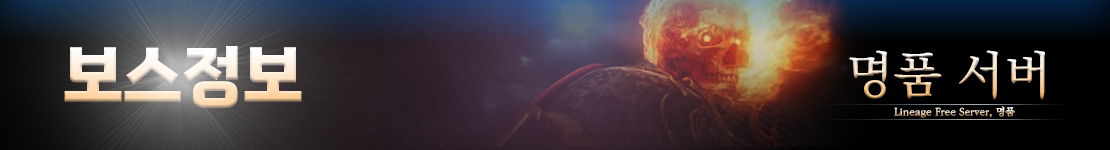
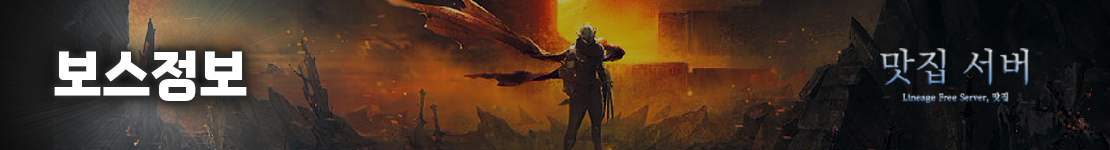
upload image

diff --git a/index.html b/index.html
@@ -459,7 +459,7 @@ visibility: visible;
 								<div class="wrap_widgetDW">
 									<table class="widgetTable_DW">
 										<tbody>
-											<tr class=""><td colspan="2"><a href="./hgInfo.html"><div class="post-image"><div class="img-wrap" style="padding-bottom:71.38%;"><div class="img-item"><img src="./images/main_widget_bg.png" alt="" class="wr-img"><div class="in-subject ellipsis">사냥터정보</div></div></div></div></a></td></tr><tr class="">
+											<tr class=""><td colspan="2"><a href="./hgInfo.html"><div class="post-image"><div class="img-wrap" style="padding-bottom:71.38%;"><div class="img-item"><img src="./images/main_widget_hg_info_bg.png" alt="" class="wr-img"><div class="in-subject ellipsis">사냥터정보</div></div></div></div></a></td></tr><tr class="">
 													<td class="title">
 														<div class="in_title">&nbsp;</div>
 													</td>
@@ -502,7 +502,7 @@ visibility: visible;
 								<div class="wrap_widgetDW">
 									<table class="widgetTable_DW">
 										<tbody>
-											<tr class=""><td colspan="2"><a href="./bossInfo.html"><div class="post-image"><div class="img-wrap" style="padding-bottom:71.38%;"><div class="img-item"><img src="./images/main_widget_bg.png" alt="" class="wr-img"><div class="in-subject ellipsis">보스정보</div></div></div></div></a></td></tr><tr class="">
+											<tr class=""><td colspan="2"><a href="./bossInfo.html"><div class="post-image"><div class="img-wrap" style="padding-bottom:71.38%;"><div class="img-item"><img src="./images/main_widget_boss_info_bg.png" alt="" class="wr-img"><div class="in-subject ellipsis">보스정보</div></div></div></div></a></td></tr><tr class="">
 													<td class="title">
 														<div class="in_title">&nbsp;</div>
 													</td>
@@ -545,7 +545,7 @@ visibility: visible;
 								<div class="wrap_widgetDW">
 									<table class="widgetTable_DW">
 										<tbody>
-											<tr class=""><td colspan="2"><a href="./itemInfo.html"><div class="post-image"><div class="img-wrap" style="padding-bottom:71.38%;"><div class="img-item"><img src="./images/main_widget_bg.png" alt="" class="wr-img"><div class="in-subject ellipsis">아이템매입정보</div></div></div></div></a></td></tr><tr class="">
+											<tr class=""><td colspan="2"><a href="./itemInfo.html"><div class="post-image"><div class="img-wrap" style="padding-bottom:71.38%;"><div class="img-item"><img src="./images/main_widget_item_info_bg.png" alt="" class="wr-img"><div class="in-subject ellipsis">아이템매입정보</div></div></div></div></a></td></tr><tr class="">
 													<td class="title">
 														<div class="in_title">&nbsp;</div>
 													</td>
